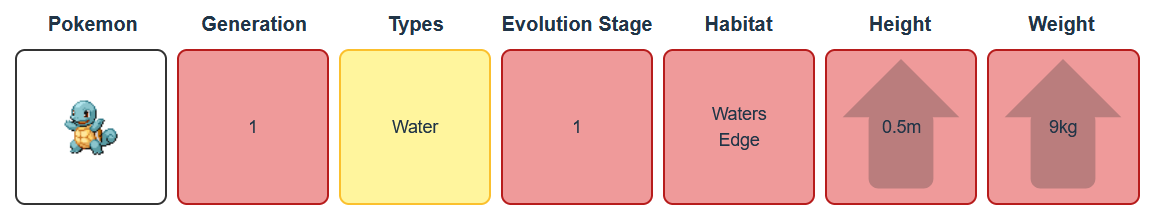
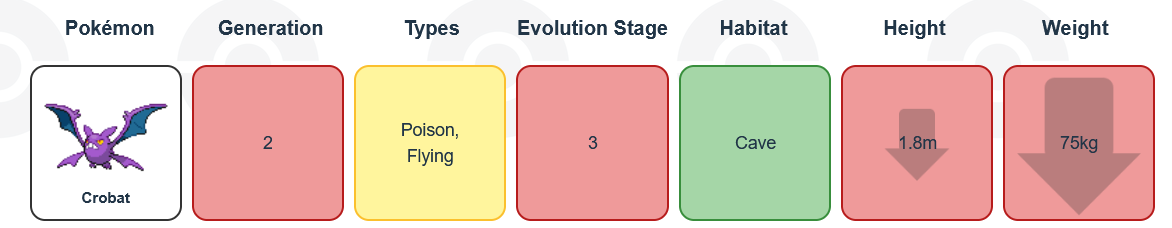
Updating classic info

diff --git a/src/pages/ClassicPage.jsx b/src/pages/ClassicPage.jsx
@@ -173,7 +173,7 @@ function ClassicPage({ pokemonData, guesses, setGuesses, daily }) {
   useEffect(() => {
     try {
       const imgs = [];
-      const urls = ['images/classic_hint_1.png', 'images/classic_hint_2.png'];
+      const urls = ['images/classic_hint_1.png', 'images/classic_hint_2.png', 'images/classic_hint_3.png'];
       urls.forEach(u => {
         const i = new Image();
         i.src = u;
@@ -418,12 +418,16 @@ function ClassicPage({ pokemonData, guesses, setGuesses, daily }) {
                 <div style={{ marginBottom: 8 }}>Each guess shows feedback across columns (Generation, Types, Evolution Stage, Habitat, Height, Weight).</div>
                 <div style={{ fontWeight: 700, marginTop: 6, marginBottom: 6 }}>Example hints</div>
                 <div style={{ width: '100%', textAlign: 'center' }}>
-                  <div style={{ fontSize: 13, color: '#333', marginTop: 6 }}>A partial type match (Water) - today’s Pokémon is dual-typed and includes Water:</div>
+                  <div style={{ fontSize: 13, color: '#333', marginTop: 6 }}>A partial type match (Poison/Flying) - today’s Pokémon is includes either Poison or Flying:</div>
                   <img src="images/classic_hint_1.png" alt="Hint 1" style={{ maxWidth: '100%', height: 'auto', borderRadius: 6, border: '1px solid #ddd' }} />
                 </div>
                 <div style={{ width: '100%', textAlign: 'center' }}>
                   <div style={{ fontSize: 13, color: '#333', marginTop: 6 }}>Generation and Evolution Stage match - this shows the correct generation and that the Pokémon is at that evolution stage:</div>
                   <img src="images/classic_hint_2.png" alt="Hint 2" style={{ maxWidth: '100%', height: 'auto', borderRadius: 6, border: '1px solid #ddd' }} />
+                </div>
+                <div style={{ width: '100%', textAlign: 'center' }}>
+                  <div style={{ fontSize: 13, color: '#333', marginTop: 6 }}>Height/Weight Arrows - Height and Weight arrows will scale based on how close the guessed pokemon's Height/Weight is:</div>
+                  <img src="images/classic_hint_3.png" alt="Hint 2" style={{ maxWidth: '100%', height: 'auto', borderRadius: 6, border: '1px solid #ddd' }} />
                 </div>
               </div>
             }
